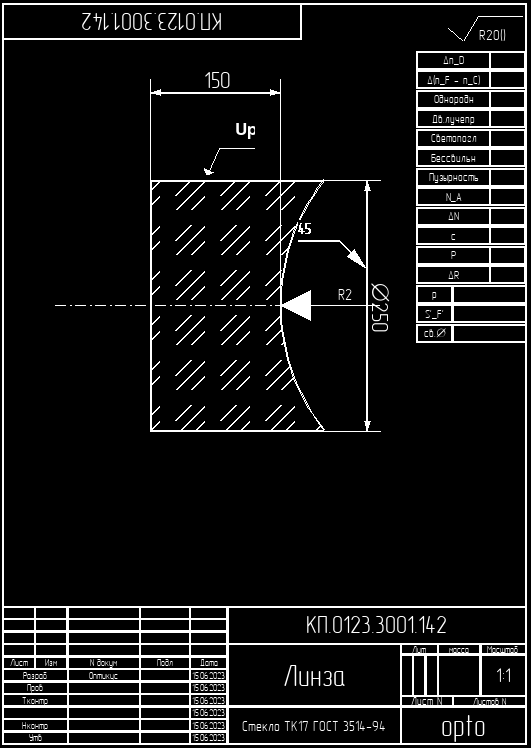
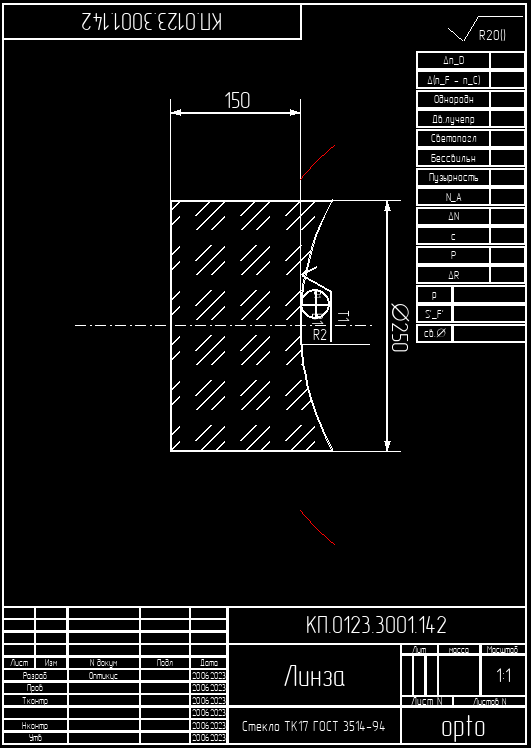
faski fix
починил смену типа фасок, работает по кнопкам type 1 type 2 type 3

Changed region(s): [[0.2712, 0.2152, 0.7834, 0.615], [0.2712, 0.0922, 0.5725, 0.1845], [0.3616, 0.8917, 0.4218, 1.0]]

diff --git a/figure/lens.py b/figure/lens.py
@@ -534,13 +534,20 @@ class lens:
                         first_point= self.point_2)
             else:
                 #self.measureDict['facet_right_measure'].first_point = self.facet_point_2
+                self.measureDict['facet_right_measure'].line_length = 40
+                self.measureDict['facet_right_measure'].triangle_part = 0.5
+                self.measureDict['facet_right_measure'].pointer_length = 40
+                self.measureDict['facet_right_measure'].first_point = self.point_2
+                self.measureDict['facet_right_measure'].second_point = None
+                self.measureDict['facet_right_measure'].text = '45'
+                self.measureDict['facet_right_measure'].chamfer_type = 1
                 self.measureDict['facet_right_measure'].scale = self.scale
                 self.measureDict['facet_right_measure'].draw()
                 self.surface.blit(self.measureDict['facet_right_measure'].surface,
                                       self.measureDict['facet_right_measure'].blit_point)
         # и справа
         size = (60,80)
-        if (self.left_facet_type == 2 and self.right_facet_type != 2):
+        if (self.right_facet_type != 2 and self.left_facet_type == 2):
             if not ('facet_left_measure' in self.measureDict.keys()):
                 self.measureDict['facet_left_measure'] = \
                     Chamfers(
@@ -563,7 +570,14 @@ class lens:
 
             else:
                 try:
-                    self.measureDict['facet_right_measure'].scale = self.scale
+                    self.measureDict['facet_left_measure'].line_length = 40
+                    self.measureDict['facet_left_measure'].triangle_part = 0.5
+                    self.measureDict['facet_left_measure'].pointer_length = 40
+                    self.measureDict['facet_left_measure'].first_point = self.point_1
+                    self.measureDict['facet_left_measure'].second_point = None
+                    self.measureDict['facet_left_measure'].text = 'UP'
+                    self.measureDict['facet_left_measure'].chamfer_type = 3
+                    self.measureDict['facet_left_measure'].scale = self.scale
                     self.measureDict['facet_left_measure'].blit_point = (self.facet_point_1[0] - size[0]/2,self.facet_point_1[1] - diametr/2 )
                     self.measureDict['facet_left_measure'].draw()
                     self.surface.blit(self.measureDict['facet_left_measure'].surface,
@@ -571,8 +585,8 @@ class lens:
                 except:
                     pass
         if (self.right_facet_type == 2 and self.left_facet_type == 2):
-            if not ('facet_right_measure' in self.measureDict.keys()):
-                self.measureDict['facet_right_measure'] =\
+            if not ('facet_left_measure' in self.measureDict.keys()):
+                self.measureDict['facet_left_measure'] =\
                     Chamfers(
                         screen = self.surface,
                         colors = self.colors,
@@ -587,12 +601,17 @@ class lens:
                         second_point=self.point_2)
             else:
                 #self.measureDict['facet_right_measure'].first_point = self.facet_point_24
-                self.measureDict['facet_right_measure'].scale = self.scale
-                self.measureDict['facet_right_measure'].first_point = self.point_1
-                self.measureDict['facet_right_measure'].second_point = self.point_2
-                self.measureDict['facet_right_measure'].draw()
-                self.surface.blit(self.measureDict['facet_right_measure'].surface,
-                                      self.measureDict['facet_right_measure'].blit_point)
+                self.measureDict['facet_left_measure'].line_length = 100
+                self.measureDict['facet_left_measure'].triangle_part = 0.3
+                self.measureDict['facet_left_measure'].pointer_length = 100
+                self.measureDict['facet_left_measure'].first_point = self.point_1
+                self.measureDict['facet_left_measure'].second_point = self.point_2
+                self.measureDict['facet_left_measure'].text = '45'
+                self.measureDict['facet_left_measure'].chamfer_type = 2
+                self.measureDict['facet_left_measure'].scale = self.scale
+                self.measureDict['facet_left_measure'].draw()
+                self.surface.blit(self.measureDict['facet_left_measure'].surface,
+                                      self.measureDict['facet_left_measure'].blit_point)
 
     def draw_base_measure(self):
         R1 = int(self.R1*self.scale)
@@ -672,6 +691,9 @@ class lens:
                     if self.types[0] == 2:
                         self.measureDict['R1_measure'].start_angle = 0
                         self.measureDict['R1_measure'].limit = (-31, 31)
+                self.measureDict['R1_measure'].surface_radius = R1
+                self.measureDict['R1_measure'].radius_length = R1/2
+                self.measureDict['R1_measure'].line_length = int(R1 * 0.95)
                 self.measureDict['R1_measure'].scale = self.scale
                 self.measureDict['R1_measure'].draw()
                 if self.types[0] == 1:
@@ -718,6 +740,9 @@ class lens:
                 #                                        text=f'R{R1}', opposite=True, angle_rotate=8)
 
             else:
+                self.measureDict['R2_measure'].surface_radius = R2
+                self.measureDict['R2_measure'].radius_length = R2 / 2
+                self.measureDict['R2_measure'].line_length = int(R2 * 0.95)
                 if self.measureDict['R2_measure'].radius_type != self.types[1]-1:
                     self.measureDict['R2_measure'].radius_type = self.types[1]-1
                     self.measureDict['R2_measure'].moved_once = False
@@ -728,18 +753,17 @@ class lens:
                     if self.types[1] == 1:
                         self.measureDict['R2_measure'].start_angle = 0
                         self.measureDict['R2_measure'].limit = (-38, 38)
-
                 self.measureDict['R2_measure'].scale = self.scale
                 self.measureDict['R2_measure'].draw()
                 if self.types[1] == 2:
-                    self.measureDict['R2_measure'].blit_point = (self.surface_width/2 + width/2, R2 - self.measureDict[
-                                                                     'R2_measure'].surface.get_height() / 2 + (R1 - R2))
+                    self.measureDict['R2_measure'].blit_point = (self.surface_width/2 + width/2, self.surface.get_height()/2-diametr+50)#R2 - self.measureDict[
+                                                                     #'R2_measure'].surface.get_height() / 2 + abs(R1 - R2))
                 elif self.types[1] == 1:
                     self.measureDict['R2_measure'].blit_point = (self.surface_width / 2 - width/2 - diametr - R2,
                                                                  R2 - self.measureDict[
-                                                                     'R2_measure'].surface.get_height() / 2 + (R1 - R2))
+                                                                     'R2_measure'].surface.get_height() / 2 + abs(R1 - R2))
 
-                #print(R2, diametr, width)
+                (R2, diametr, width)
 
                 self.surface.blit(self.measureDict['R2_measure'].surface,
                                   self.measureDict['R2_measure'].blit_point)

diff --git a/figure/figure_new/tasks_may/chamfers_class.py b/figure/figure_new/tasks_may/chamfers_class.py
@@ -13,7 +13,7 @@ class Chamfers:
                  angle: int = 45,
                  triangle_part: int = 0.5,
                  second_point: Tuple[int, int] = None,
-                 scale: int = 1, font: str = 'arial.ttf', font_size: int = 16):
+                 scale: int = 1, font: str = None, font_size: int = 16):
         self.line_length_origin = line_length
         self.pointer_length_origin = pointer_length
         self.line_width_origin = line_width
@@ -76,6 +76,15 @@ class Chamfers:
             self.surface = self.create_surface()
 
             self.previous_scale = self.scale
+
+        self.rendered_text = self.font.render(self.text, True, self.colors['border'])
+
+        self.first_dot, self.line_dot, self.text_dot = self.get_main_dots()
+        self.polygon_dots = self.get_polygon_dots()
+
+        self.offset = (abs(self.text_dot[0]), abs(self.text_dot[1]))
+
+        self.surface = self.create_surface()
 
         # pygame.draw.rect(self.screen, self.colors['test'], [self.first_point[0]-self.offset[0], self.first_point[1] - self.offset[1], self.surface.get_width(), self.surface.get_height()], 1)
         self.surface.blit(self.rendered_text, (self.text_dot[0] + self.offset[0], self.text_dot[1] + self.offset[1]))
@@ -158,7 +167,7 @@ class Chamfers:
 
         elif self.chamfer_type == 1:
             surface = pygame.Surface((abs(self.text_dot[0]) + self.first_dot[0], abs(self.text_dot[1])))
-            print(surface.get_rect())
+            # print(surface.get_rect())
 
         return surface
 

diff --git a/GUI/init_buttoms.py b/GUI/init_buttoms.py
@@ -135,6 +135,7 @@ def initFacetTypeBtn(drawingTemplate , interfceSurfce, colors, border_size, font
     ###### Включение диагональной фаски
     def facet_type_1(text):  # передача i в качестве аргумента по умолчанию
         drawingTemplate.current_figure.left_facet_type = 2
+        drawingTemplate.current_figure.right_facet_type = False
     buttonDict['facet_type_1'] = \
         button(interfceSurfce,
                 (int(10*scale), int(5*scale)),
@@ -159,6 +160,7 @@ def initFacetTypeBtn(drawingTemplate , interfceSurfce, colors, border_size, font
     ###### Включение диагональной фаски
     def facet_type_3(text):  # передача i в качестве аргумента по умолчанию
         drawingTemplate.current_figure.right_facet_type = 2
+        drawingTemplate.current_figure.left_facet_type = False
     buttonDict['facet_type_3'] = \
         button(interfceSurfce,
                 (int(10*scale) + 2*button_size[0] + int(scale*9), int(5*scale)),

diff --git a/figure/figure_new/tasks_may/radius_class.py b/figure/figure_new/tasks_may/radius_class.py
@@ -18,7 +18,7 @@ class Radius:
                  text: str,
                  radius_type: int,
                  limit: Tuple[int, int] = None,
-                 font: str = 'arial.ttf',
+                 font: str = None,
                  font_size: int = 16,
                  scale: int = 1):
 
@@ -135,7 +135,7 @@ class Radius:
         self.surface.fill(self.colors['transparent'])
 
         # drawing circle (only for development)
-        # pygame.draw.circle(self.surface, self.colors['border'], self.surface_center, self.surface_radius, 1)
+        pygame.draw.circle(self.surface, self.colors['test'], self.surface_center, self.surface_radius, 1)
 
         # kostb1l
         if not self.moved_once:

diff --git a/figure/figure_new/tasks_may/dropdownlist_class.py b/figure/figure_new/tasks_may/dropdownlist_class.py
@@ -13,7 +13,7 @@ class DropdownList:
                  max_height: int,
                  function: Callable,
                  default_value: str = '',
-                 font: str = 'arial.ttf',
+                 font: str = None,
                  font_size: int = 16,
                  scale: int = 1):
         self.screen = screen

diff --git a/figure/figure_new/tasks_may/choosingtable_class.py b/figure/figure_new/tasks_may/choosingtable_class.py
@@ -12,7 +12,7 @@ class ChoosingTable:
                  tables: Dict[str, Tuple],
                  function: Callable,
                  scale: int = 1,
-                 font: str = 'arial.ttf',
+                 font: str = None,
                  font_size: int = 16
                  ):
         self.scale = scale
